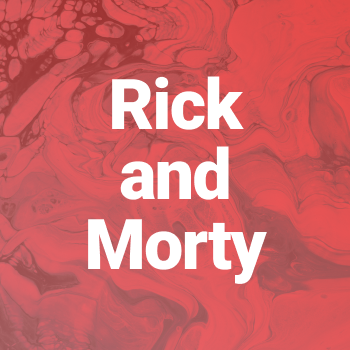
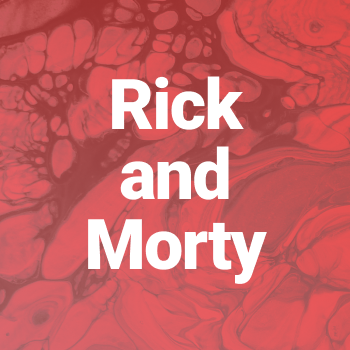
Stretch 2.4 - Style quiz background

diff --git a/scripts/app.js b/scripts/app.js
@@ -13,17 +13,17 @@ const ramQuestions = [
         question: 'What is the name of Morty\'s dog?',
         image: 'images/1-2.jpeg',
         optionA: 'A. Snowball',
-        optionB: 'B. Fluffles',
+        optionB: 'B. Max',
         optionC: 'C. Squanchy',
-        optionD: 'D. Simba',
+        optionD: 'D. Charlie',
         correct: 'A. Snowball'
     },
     {
         question: 'Who voices Fart?',
         image: 'images/1-3.png',
-        optionA: 'A. Oscar the Grouch',
+        optionA: 'A. John Oliver',
         optionB: 'B. Jemaine Clement',
-        optionC: 'C. Martha Stewart',
+        optionC: 'C. Stephen Colbert',
         optionD: 'D. David Bowie',
         correct: 'B. Jemaine Clement'
     },
@@ -50,17 +50,17 @@ const ramQuestions = [
         image: 'images/1-6.png',
         optionA: 'A. Super Nova',
         optionB: 'B. Unity',
-        optionC: 'C. Beth',
+        optionC: 'C. Christina Hendricks',
         optionD: 'D. Jessica',
         correct: 'B. Unity'
     },
     {
         question: 'What is the name of Beth\'s imaginary world?',
         image: 'images/1-7.jpeg',
-        optionA: 'A. Hoth',
+        optionA: 'A. Floopyland',
         optionB: 'B. Froopyland',
         optionC: 'C. Neverland',
-        optionD: 'D. Atlantis',
+        optionD: 'D. Atlantiland',
         correct: 'B. Froopyland'
     },
     {
@@ -69,11 +69,11 @@ const ramQuestions = [
         optionA: 'A. Justin Roiland',
         optionB: 'B. Thomas Middleditch',
         optionC: 'C. Dan Harmon',
-        optionD: 'D. Lin Manuel Miranda',
+        optionD: 'D. Alan Tudyk',
         correct: 'C. Dan Harmon'
     },
     {
-        question: 'Who is the first to go in \'Total Rickall\'?',
+        question: 'Who is the first to die in \'Total Rickall\'?',
         image: 'images/1-9.jpg',
         optionA: 'A. Uncle Steve',
         optionB: 'B. Pencilvester',
@@ -82,7 +82,7 @@ const ramQuestions = [
         correct: 'A. Uncle Steve'
     },
     {
-        question: 'What is the only thing Rick cares about in the Vindicators?',
+        question: 'What is the only thing Rick cares about in Vindicators 3?',
         image: 'images/1-10.png',
         optionA: 'A. Noob Noob',
         optionB: 'B. Nothing',
@@ -243,7 +243,7 @@ const marvQuestions = [
         correct: 'B. Adam Warlock'
     },
     {
-        question: 'What show has cameo appearances in Russo brother\'s movies?',
+        question: 'What show has cameo appearances in the Russo brother\'s movies?',
         image: 'images/marv7.jpg',
         optionA: 'A. Community',
         optionB: 'B. Daredevil',
@@ -332,7 +332,7 @@ const bttfQuestions = [
         image: 'images/bttf6.jpg',
         optionA: 'A. 10:04 p.m.',
         optionB: 'B. 9:56 p.m.',
-        optionC: 'C. 10:15 a.m.',
+        optionC: 'C. 10:32 p.m.',
         optionD: 'D. 12:03 a.m.',
         correct: 'A. 10:04 p.m.'
     },
@@ -388,7 +388,7 @@ const officeQuestions = [
     {
         question: 'What did Michael say everyone called Phyllis back in high school?',
         image: 'images/office2.jpg',
-        optionA: 'A. Less-Urban Aunt Jemima',
+        optionA: 'A. Aunt Jemima',
         optionB: 'B. Easy Rider',
         optionC: 'C. Phyll',
         optionD: 'D. Crappin\' Lapin',
@@ -404,7 +404,7 @@ const officeQuestions = [
         correct: 'B. Iced Tea, 3 Sugar, 5 Cream'
     },
     {
-        question: 'What does Michael eat instead of ice cream when they don\'t have any?',
+        question: 'What does Michael eat instead of ice cream when they run out?',
         image: 'images/office4.jpg',
         optionA: 'A. Sour Cream & Cheese',
         optionB: 'B. Mayo and Chocolate Chips',
@@ -434,8 +434,8 @@ const officeQuestions = [
         question: 'What is Michael and Jan\'s safe word if things go too far?',
         image: 'images/office7.jpg',
         optionA: 'A. Bonfire',
-        optionB: 'B. Candle',
-        optionC: 'C. Candles',
+        optionB: 'B. Furnace',
+        optionC: 'C. Freight Car',
         optionD: 'D. Foliage',
         correct: 'D. Foliage'
     },
@@ -444,8 +444,8 @@ const officeQuestions = [
         image: 'images/office8.jpeg',
         optionA: 'A. Kelly',
         optionB: 'B. Erin',
-        optionC: 'C. Margaret',
-        optionD: 'D. Kevin',
+        optionC: 'C. Holly',
+        optionD: 'D. Phyllis',
         correct: 'A. Kelly'
     },
     {
@@ -507,7 +507,7 @@ const disQuestions = [
         correct: 'C. Lady Tremaine'
     },
     {
-        question: 'How many brothers does Hans have in the movie Frozen??',
+        question: 'How many brothers does Hans have in the movie Frozen?',
         image: 'images/dis5.jpg',
         optionA: 'A. 12',
         optionB: 'B. 5',
@@ -534,7 +534,7 @@ const disQuestions = [
         correct: 'B. Coffee'
     },
     {
-        question: 'Who chooses Moana to return the heart?',
+        question: 'Who chooses Moana to return the heart to Te Fiti?',
         image: 'images/dis8.jpeg',
         optionA: 'A. Her Father',
         optionB: 'B. Her Grandmother',
@@ -630,10 +630,10 @@ const sthingsQuestions = [
     {
         question: 'What is the true name for the Upside Down?',
         image: 'images/sthings8.jpeg',
-        optionA: 'A. The Outer Space',
+        optionA: 'A. The Neather',
         optionB: 'B. The Other Place',
         optionC: 'C. The Nether',
-        optionD: 'D. Inner Space',
+        optionD: 'D. The Inner Space',
         correct: 'C. The Nether'
     },
     {
@@ -695,7 +695,7 @@ const swarsQuestions = [
         correct: 'C. Han'
     },
     {
-        question: 'Which actress starred as Queen Amidala’s decoy and hand-maiden Sabè?',
+        question: 'Which actress played Queen Amidala’s decoy and hand-maiden Sabè?',
         image: 'images/swars5.jpg',
         optionA: 'A. Kiera Knightley',
         optionB: 'B. Sofia Coppola',
@@ -715,7 +715,7 @@ const swarsQuestions = [
     {
         question: 'The planet Kashyyyk is home to who?',
         image: 'images/swars7.jpg',
-        optionA: 'A. The Clones',
+        optionA: 'A. Clones',
         optionB: 'B. Wookies',
         optionC: 'C. Yoda',
         optionD: 'D. Jabba the Hutt',

diff --git a/index.html b/index.html
@@ -16,7 +16,7 @@
     <main>
 
         <div class="launch">
-            <h1>Know This</h1>
+            <h1>Know This Trivia</h1>
             <div class="launch__grid">
                 <div class="grid__item ram"><img src="../images/ramoverlay.png" alt=""></div>
                 <div class="grid__item lotr"><img src="../images/lotroverlay.png" alt=""></div>
@@ -86,6 +86,7 @@
                     <button class="office__finish hidden">FINISH</button>
                 </div>
             </div>
+            <div class="quizbg"></div>
         </div>
 
     </main>

diff --git a/styles/style.css b/styles/style.css
@@ -129,6 +129,22 @@ h1 {
     transition: .25s ease;
 }
 
+.quizbg {
+    position: absolute;
+    top: 0;
+    right: 0;
+    bottom: 0;
+    left: 0;
+    width: 100vw;
+    height: 100vh;
+    z-index: -1;
+    background-image: url(../images/quizbg2.png);
+    background-repeat: no-repeat;
+    background-position: center;
+    background-size: cover;
+    transition: .25s ease;
+}
+
 .ram:hover ~ .bg {
     background-image: url(../images/ramlaunchbg.png);
 }
